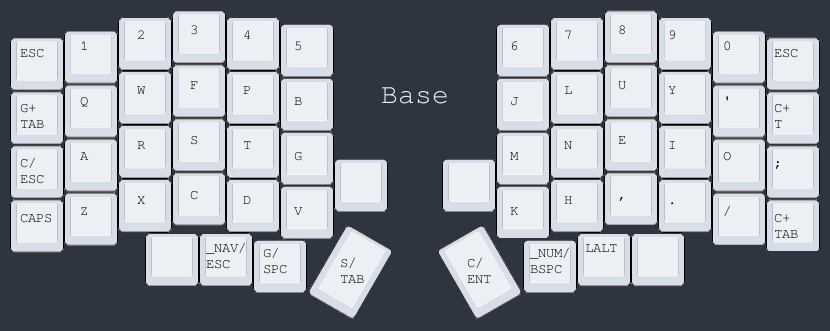
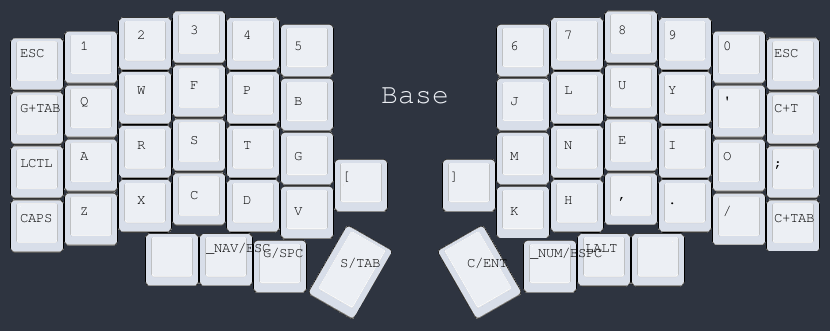
update

diff --git a/qmk_config/lily58/keymap.c b/qmk_config/lily58/keymap.c
@@ -7,27 +7,24 @@ enum layer_number {
 };
 const uint16_t PROGMEM keymaps[][MATRIX_ROWS][MATRIX_COLS] = {
   [_BASE] = LAYOUT(
-    KC_ESC,      KC_1,        KC_2,        KC_3,        KC_4,        KC_5,                                    KC_6,        KC_7,        KC_8,        KC_9,        KC_0,        KC_ESC,      
-    LGUI(KC_TAB), KC_Q,        KC_W,        KC_F,        KC_P,        KC_B,                                    KC_J,        KC_L,        KC_U,        KC_Y,        KC_QUOT,     LCTL(KC_T),  
-    LCTL_T(KC_ESC), KC_A,        KC_R,        KC_S,        KC_T,        KC_G,                                    KC_M,        KC_N,        KC_E,        KC_I,        KC_O,        KC_SCLN,     
-    KC_CAPS,     KC_Z,        KC_X,        KC_C,        KC_D,        KC_V,        KC_NO,         KC_NO,       KC_K,        KC_H,        KC_COMMA,    KC_DOT,      KC_SLSH,     LCTL(KC_TAB), 
-                                           KC_NO,       LT(_NAV, KC_ESC), LGUI_T(KC_SPC), SFT_T(KC_TAB),   LCTL_T(KC_ENT), LT(_NUM, KC_BSPC), KC_LALT,     KC_NO        
-    
+    KC_ESC,KC_1,KC_2,KC_3,KC_4,KC_5,KC_6,KC_7,KC_8,KC_9,KC_0,KC_ESC,
+    LGUI(KC_TAB),KC_Q,KC_W,KC_F,KC_P,KC_B,KC_J,KC_L,KC_U,KC_Y,KC_QUOT,LCTL(KC_T),
+    KC_LCTL,KC_A,KC_R,KC_S,KC_T,KC_G,KC_M,KC_N,KC_E,KC_I,KC_O,KC_SCLN,
+    KC_CAPS,KC_Z,KC_X,KC_C,KC_D,KC_V,KC_LBRC,KC_RBRC,KC_K,KC_H,KC_COMMA,KC_DOT,KC_SLSH,LCTL(KC_TAB),
+    KC_NO,LT(_NAV, KC_ESC),LGUI_T(KC_SPC),SFT_T(KC_TAB),LCTL_T(KC_ENT),LT(_NUM, KC_BSPC),KC_LALT,KC_NO
   ),
   [_NUM] = LAYOUT(
-    KC_NO,       KC_NO,       KC_NO,       KC_NO,       KC_NO,       KC_NO,                                   KC_NO,       KC_NO,       KC_NO,       KC_NO,       KC_NO,       KC_NO,       
-    RESET,       KC_LBRC,     KC_7,        KC_8,        KC_9,        KC_RBRC,                                 KC_LCBR,     KC_LPRN,     KC_ASTR,     KC_AMPR,     KC_RCBR,     KC_NO,       
-    KC_NO,       KC_0,        KC_4,        KC_5,        KC_6,        KC_EQL,                                  KC_PLUS,     KC_CIRC,     KC_PERC,     KC_DLR,      KC_RPRN,     KC_NO,       
-    KC_NO,       KC_GRV,      KC_1,        KC_2,        KC_3,        KC_BSLS,     KC_NO,         KC_NO,       KC_PIPE,     KC_HASH,     KC_AT,       KC_EXLM,     KC_TILD,     KC_NO,       
-                                           KC_NO,       KC_UNDS,     KC_SPC,      KC_MINS,       KC_ENT,      KC_TRNS,     KC_NO,       KC_NO        
-    
+    KC_NO,KC_NO,KC_NO,KC_NO,KC_NO,KC_NO,KC_NO,KC_NO,KC_NO,KC_NO,KC_NO,KC_NO,
+    KC_NO,KC_LBRC,KC_7,KC_8,KC_9,KC_RBRC,KC_LCBR,KC_LPRN,KC_ASTR,KC_AMPR,KC_RCBR,KC_NO,
+    KC_NO,KC_0,KC_4,KC_5,KC_6,KC_EQL,KC_PLUS,KC_CIRC,KC_PERC,KC_DLR,KC_RPRN,KC_NO,
+    KC_NO,KC_GRV,KC_1,KC_2,KC_3,KC_BSLS,KC_NO,KC_NO,KC_PIPE,KC_HASH,KC_AT,KC_EXLM,KC_TILD,KC_NO,
+    KC_NO,KC_UNDS,KC_SPC,KC_MINS,KC_ENT,KC_TRNS,KC_NO,KC_NO
   ),
   [_NAV] = LAYOUT(
-    KC_NO,       KC_NO,       KC_NO,       KC_NO,       KC_NO,       KC_NO,                                   KC_NO,       KC_NO,       KC_NO,       KC_NO,       KC_NO,       KC_NO,       
-    KC_NO,       KC_NO,       KC_NO,       KC_NO,       KC_NO,       KC_NO,                                   KC_MPRV,     KC_VOLD,     KC_VOLU,     KC_MNXT,     KC_NO,       KC_NO,       
-    KC_NO,       KC_NO,       KC_NO,       KC_NO,       KC_NO,       KC_NO,                                   KC_LEFT,     KC_DOWN,     KC_UP,       KC_RGHT,     KC_NO,       KC_NO,       
-    KC_NO,       KC_NO,       KC_NO,       KC_NO,       KC_NO,       KC_NO,       KC_NO,         KC_NO,       KC_HOME,     KC_END,      KC_MPLY,     KC_MUTE,     KC_NO,       KC_NO,       
-                                           KC_NO,       KC_NO,       KC_TRNS,     KC_NO,         KC_ENT,      KC_BSPC,     KC_NO,       KC_NO        
-    
+    KC_NO,KC_NO,KC_NO,KC_NO,KC_NO,KC_NO,KC_NO,KC_NO,KC_NO,KC_NO,KC_NO,KC_NO,
+    KC_NO,KC_NO,KC_NO,KC_NO,KC_NO,KC_NO,KC_MPRV,KC_VOLD,KC_VOLU,KC_MNXT,KC_NO,KC_NO,
+    KC_NO,KC_NO,KC_NO,KC_NO,KC_NO,KC_NO,KC_LEFT,KC_DOWN,KC_UP,KC_RGHT,KC_NO,KC_NO,
+    KC_NO,KC_NO,KC_NO,KC_NO,KC_NO,KC_NO,KC_NO,KC_NO,KC_HOME,KC_END,KC_MPLY,KC_MUTE,KC_NO,KC_NO,
+    KC_NO,KC_NO,KC_TRNS,KC_NO,KC_ENT,KC_BSPC,KC_NO,KC_NO
   )
 };
